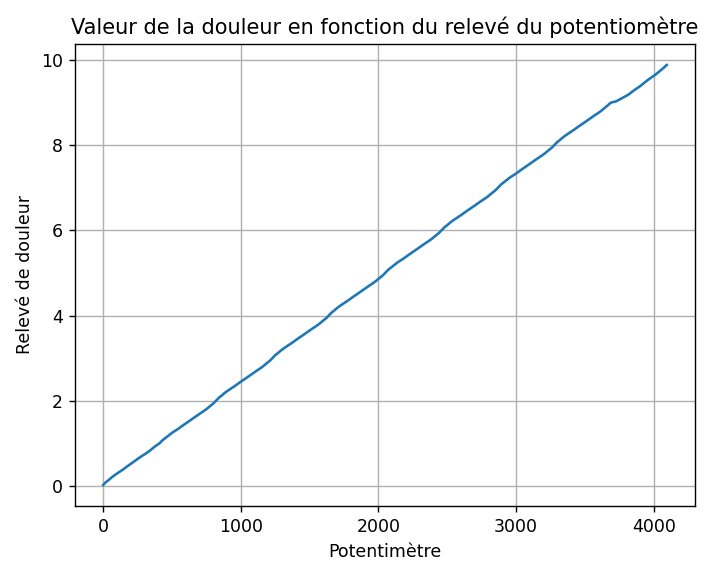
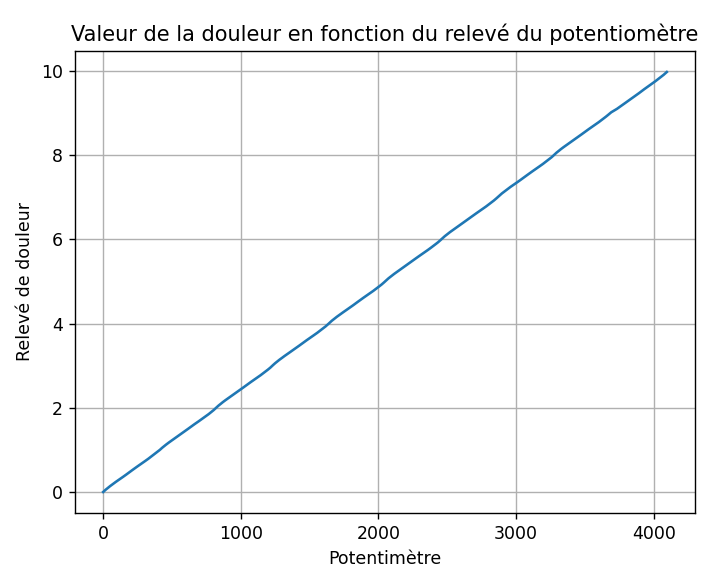
Logique floue correction

diff --git a/Site Web Visualisation/fonctions.js b/Site Web Visualisation/fonctions.js
@@ -38,7 +38,7 @@ function LoadPatients(patients) {
             console.log(enregistement)
             pain.push({
               "x": enregistement.evaluation_date,
-              "y": (enregistement.level/4095.0) * 10.0
+              "y": (enregistement.level/4095.0)*10.0
             });
           }
           

diff --git a/Classification_LogiqueFloue/Logique Simple/LogiqueFloue_Classifieur.py b/Classification_LogiqueFloue/Logique Simple/LogiqueFloue_Classifieur.py
@@ -31,7 +31,7 @@ potentiometre = ctrl.Antecedent(
     np.arange(
         VALEUR_MIN_POTENTIOMETRE - 200, 
         VALEUR_MAX_POTENTIOMETRE + 200, 
-        5
+        2
     ),
     'potentiometre'
 )
@@ -40,7 +40,7 @@ douleur = ctrl.Consequent(
     np.arange(
         VALEUR_MIN_DOULEUR - 2, 
         VALEUR_MAX_DOULEUR + 2, 
-        0.5
+        0.2
     ),
     'douleur'
 )
@@ -179,7 +179,7 @@ def exporter_modele():
 
         
         if(valeur_potentiometre == 950):
-            print("INFO : Affichage des courbes pour l'entrée 84.")
+            print("INFO : Affichage des courbes pour l'entrée 950")
             potentiometre.view(sim=douleur_mesure)
             douleur.view(sim=douleur_mesure)
             input()
@@ -201,15 +201,15 @@ def exporter_modele():
     Affichages(y_points, y_points_demi)
     input()
 
-    donnees = {"classe_douleur": y_points}
-    donnees_dixieme = {"classe_douleur_entiere": y_points_demi}
+    donnees = {"fonction_douleur": y_points}
+    donnees_dixieme = {"fonction_douleur": y_points_demi}
 
     """
     Fonction d'export au format JSON
     """
     with open("points_list.json", "w") as json_file:
         json.dump(donnees, json_file)
-    with open("points_list_dixieme.json", "w") as json_file:
+    with open("points_list_demi.json", "w") as json_file:
         json.dump(donnees_dixieme, json_file)
 
 exporter_modele()
